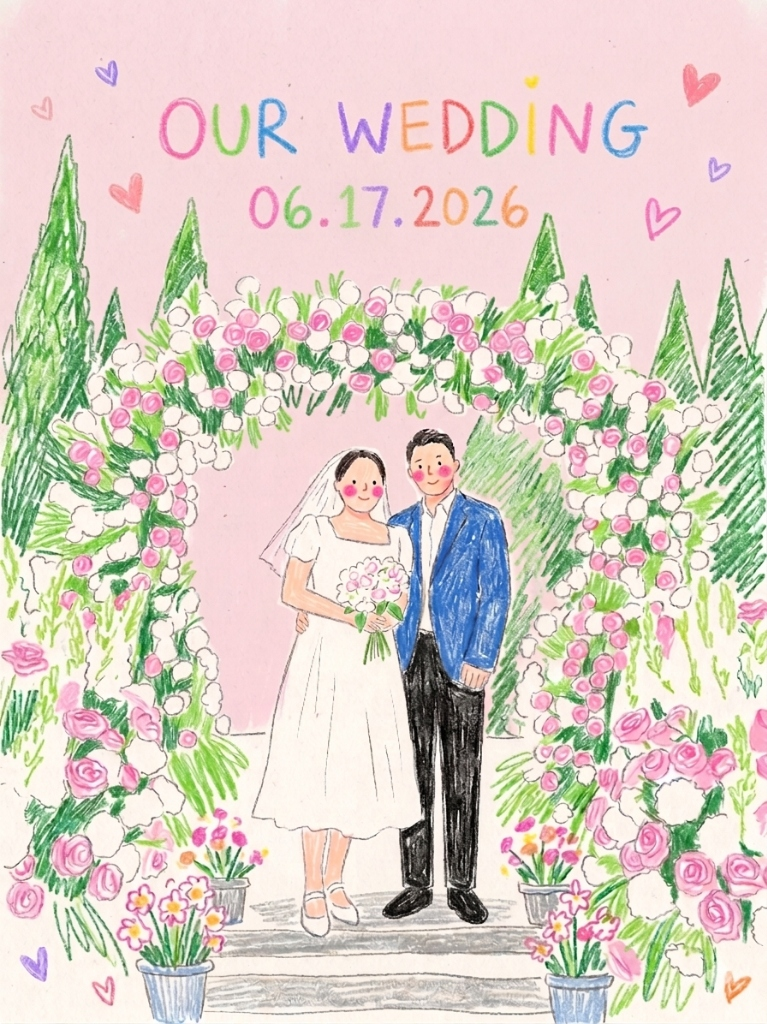
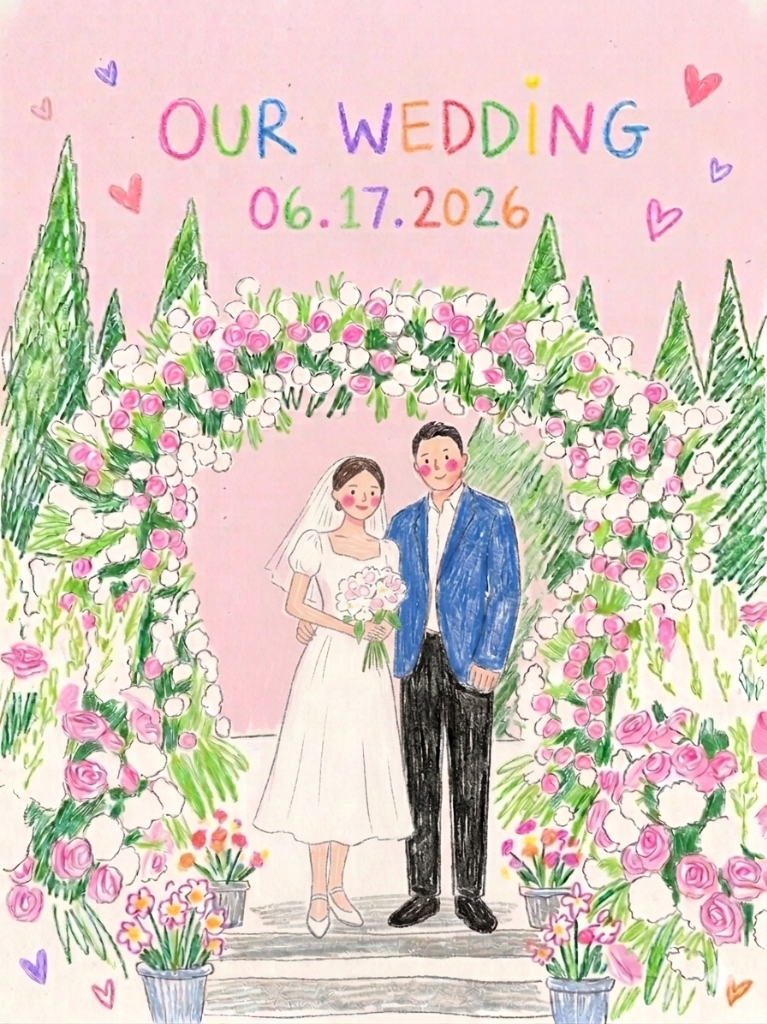
Updated main image

diff --git a/index.html b/index.html
@@ -24,7 +24,7 @@
     <section class="section-hero">
       <!-- Main Wedding Illustration -->
       <div class="hero-main-img-wrap">
-        <img src="wedding-main.jpg" alt="Our Wedding Illustration" class="hero-main-img" />
+        <img src="wedding-main.jpg?v=2" alt="Our Wedding Illustration" class="hero-main-img" />
         <div class="hero-img-overlay">
           <div class="hero-overlay-bottom">
             <p class="hero-label">Wedding Invitation</p>